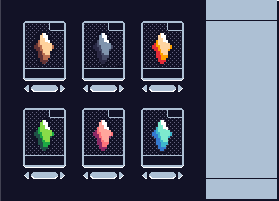
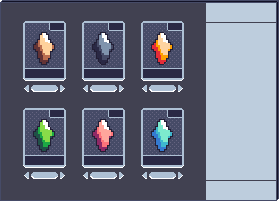
trading textures

diff --git a/src/hangar.cpp b/src/hangar.cpp
@@ -76,9 +76,16 @@ scene_type hangar::update_door() {
                               (float)std::numeric_limits<uint8_t>::max());
         }
     }
+
     wze::renderer::set_space_color_r(_color);
     wze::renderer::set_space_color_g(_color);
     wze::renderer::set_space_color_b(_color);
+    wze::renderer::set_background_color_r(
+        _color / std::numeric_limits<uint8_t>::max() * 18);
+    wze::renderer::set_background_color_g(
+        _color / std::numeric_limits<uint8_t>::max() * 18);
+    wze::renderer::set_background_color_b(
+        _color / std::numeric_limits<uint8_t>::max() * 38);
 
     return !_color ? SCENE_TYPE_SHOP : SCENE_TYPE_HANGAR;
 }
@@ -100,6 +107,12 @@ scene_type hangar::update_ship() {
     wze::renderer::set_space_color_r(_color);
     wze::renderer::set_space_color_g(_color);
     wze::renderer::set_space_color_b(_color);
+    wze::renderer::set_background_color_r(
+        _color / std::numeric_limits<uint8_t>::max() * 18);
+    wze::renderer::set_background_color_g(
+        _color / std::numeric_limits<uint8_t>::max() * 18);
+    wze::renderer::set_background_color_b(
+        _color / std::numeric_limits<uint8_t>::max() * 38);
 
     return !_color ? SCENE_TYPE_SPACE : SCENE_TYPE_HANGAR;
 }
@@ -123,6 +136,9 @@ hangar::hangar() : _player(-3637.5, -705) {
     wze::renderer::set_space_color_r(_color);
     wze::renderer::set_space_color_g(_color);
     wze::renderer::set_space_color_b(_color);
+    wze::renderer::set_background_color_r(_color);
+    wze::renderer::set_background_color_g(_color);
+    wze::renderer::set_background_color_b(_color);
 
     _background = {0,
                    0,
@@ -324,6 +340,9 @@ hangar::hangar() : _player(-3637.5, -705) {
 
 hangar::~hangar() {
     wze::renderer::set_space_texture({});
+    wze::renderer::set_background_color_r(0);
+    wze::renderer::set_background_color_g(0);
+    wze::renderer::set_background_color_b(0);
     wze::renderer::set_space_color_r(std::numeric_limits<uint8_t>::max());
     wze::renderer::set_space_color_g(std::numeric_limits<uint8_t>::max());
     wze::renderer::set_space_color_b(std::numeric_limits<uint8_t>::max());

diff --git a/src/player_ship.cpp b/src/player_ship.cpp
@@ -142,14 +142,11 @@ void player_ship::update_movement() {
 
     moved = false;
 
-    if ((wze::input::key(wze::KEY_W) || wze::input::key(wze::KEY_UP)) &&
-        !(wze::input::key(wze::KEY_S) || wze::input::key(wze::KEY_DOWN))) {
-        set_z(z() + _speed * wze::timer::delta_time());
-        moved = true;
-    } else if ((wze::input::key(wze::KEY_S) ||
-                wze::input::key(wze::KEY_DOWN)) &&
-               !(wze::input::key(wze::KEY_W) || wze::input::key(wze::KEY_UP))) {
+    if (wze::input::key(wze::KEY_S)) {
         set_z(z() - _speed * wze::timer::delta_time());
+        moved = true;
+    } else {
+        set_z(z() + _speed * wze::timer::delta_time());
         moved = true;
     }
 
@@ -392,17 +389,17 @@ player_ship::player_ship() {
     }
     _current_hitpoints = _max_hitpoints;
 
-    switch (save_data::player_ship_storage_tier()){
-        case 0:
+    switch (save_data::player_ship_storage_tier()) {
+    case 0:
         _storage = 50;
         break;
-        case 1:
+    case 1:
         _storage = 80;
         break;
-        case 2:
+    case 2:
         _storage = 120;
         break;
-        default:
+    default:
         _storage = 150;
         break;
     }

diff --git a/src/trade.cpp b/src/trade.cpp
@@ -61,7 +61,7 @@ trade::trade(float x, float y, trade_type trade_type)
     _price = 0;
     _price_sprite = {x - 147.5f, y + 115, wze::camera::focus() * 0.95f, 0, 270,
                      60,         true};
-    _text_sprite = {x + 142.5f,
+    _text_sprite = {x + 152.5f,
                     y - 50,
                     wze::camera::focus() * 0.95f,
                     0,
